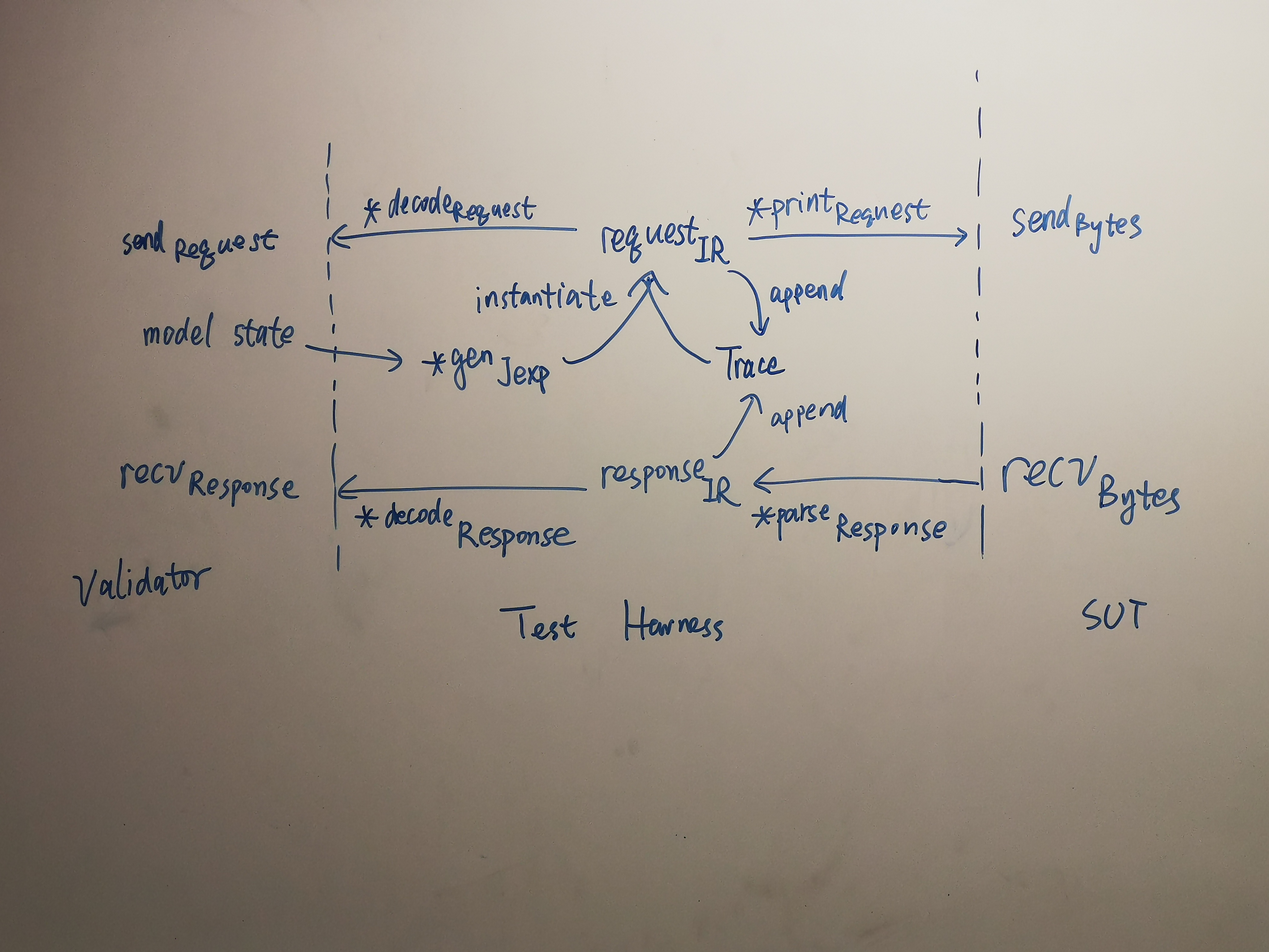
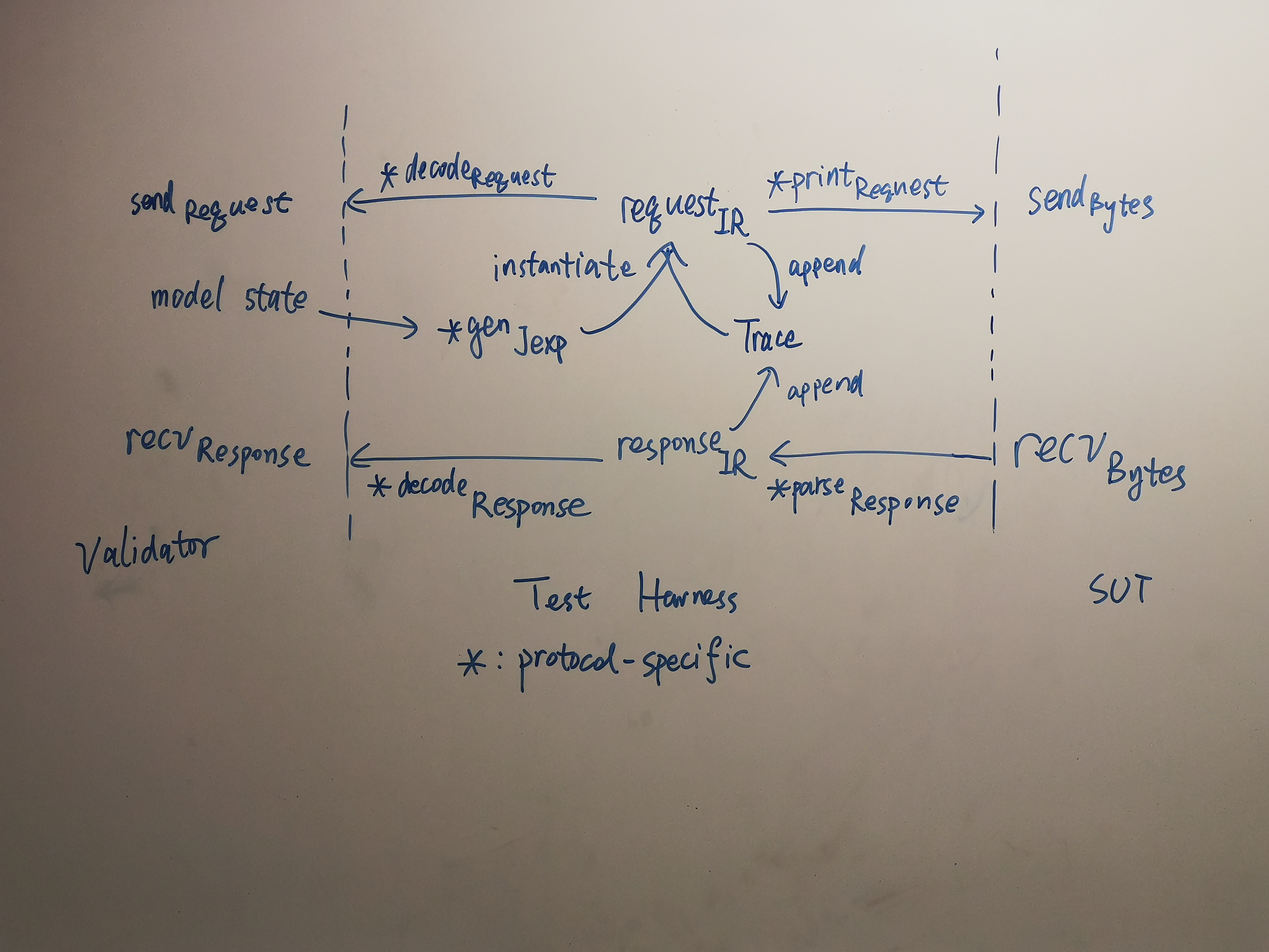
Explain test harness mechanism

diff --git a/proposal.tex b/proposal.tex
@@ -175,6 +175,13 @@ messages.
   \label{fig:harness}
 \end{figure}
 
+As shown in \autoref{fig:harness}, the test harness records a trace of requests
+and responses, using an generic intermediate representation.  Requests are
+generated as ``J-expressions'' that can be instantiated into a request IR based
+on the trace.  For each protocol to test, the developers need to specify how to
+generate J-expressions that represent requests.  Developers also need to define
+how to interpret between the IR, bytes, and application messages.
+
 \subsection{Generic specification language}
 Based on my experiments on various web applications, I'll propose a generic
 library for specifying application-level protocols.  Developers use the
